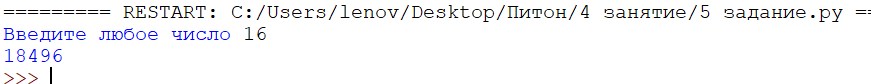
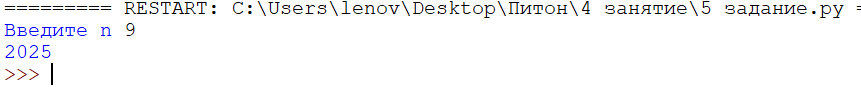
Добавил 4 задание

diff --git a/4 занятие/7 задание.py b/4 занятие/7 задание.py
@@ -1,15 +1,9 @@
 # -- coding: utf-8 --
-n = int(input("Введите количество ступенек "))
-if n <= 9:
-    for i in range(1, n):
-        j = 1
-        while i >= j:
-            print(j, end="")
-            j +=1
-        print(end="\n")
-    j = 1
-    while n >= j:
-        print(j, end="")
-        j += 1
-else:
-    print("n должно быть <= 9")
+n = int(input("Введите число n: "))
+N = n + 1
+n_1 = 0
+n_2 = 1
+for i in range(1, N):
+        n_2 *= i
+        n_1 += n_2
+print(n_1)

diff --git a/4 занятие/6 задание.py b/4 занятие/6 задание.py
@@ -1,10 +1,8 @@
 # -- coding: utf-8 --
-n = int(input("Введите число n: "))
-N = n + 1
-n_1 = 0
-n_2 = 1
-for i in range(1, N):
-        n_2 *= i
-        n_1 += n_2
+n_1 = 1
+n = int(input("Введите любое число "))
+for i in range(1, n):
+    n_1 *= i
+n_1 *= n
 print(n_1)
         

diff --git a/4 занятие/3 задание.py b/4 занятие/3 задание.py
@@ -6,10 +6,10 @@ if A_3 % 2 ==1:
     print(A_3)
     while A_3 > B_3:
         A_3 -=2
-        print(A_3, end=";")
+        print(A_3)
 elif A_3 % 2 == 0:
     A_3 -=1
     print(A_3)
     while A_3 > B_3:
         A_3 -=2
-        print(A_3, end=";")
+        print(A_3)

diff --git a/4 занятие/5 задание.py b/4 занятие/5 задание.py
@@ -1,7 +1,7 @@
 # -- coding: utf-8 --
-n_1 = 1
-n = int(input("Введите любое число "))
+n_1 = 0
+n = int(input("Введите n "))
 for i in range(1, n):
-    n_1 *= i
-n_1 *= n
+    n_1 = n_1 + i**3
+n_1 = n_1 + n**3
 print(n_1)
